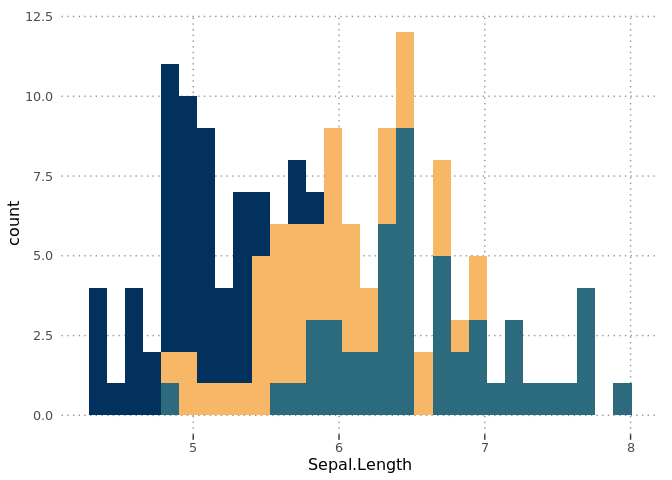
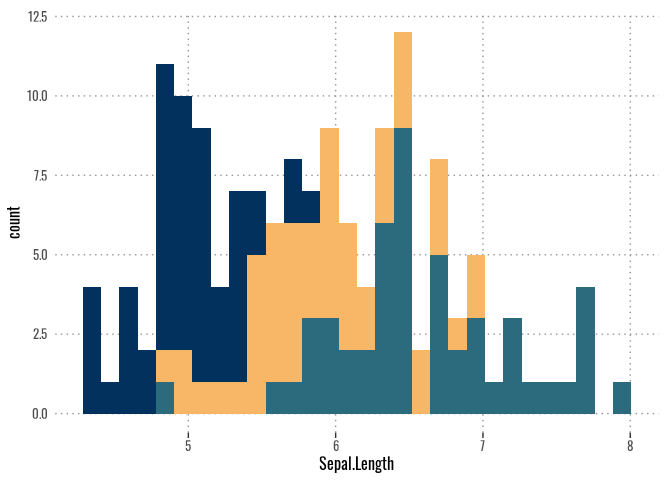
updated README

diff --git a/README.md b/README.md
@@ -22,14 +22,55 @@ You can install the development version from
 remotes::install_github("DSC-WAV/dscstyle")
 ```
 
-## Example
+## DSC Color Palettes
 
-This is a basic example which shows you how to solve a common problem:
+The package **dscstyle** includes three color palettes that are
+colorblind friendly and look good with the DSC-WAV logo. These palettes
+are available in the two **ggplot2** scale functions:
+
+  - `scale_color_dsc()`
+  - `scale_fill_dsc()`
+
+These scale functions default to a dark color palette
+(`palette="dark"`). There is also a lighter palette option
+(`palette="light"`) that can be included in these functions, as well as
+a palette for ordered data (`palette="blues"`).
+
+**Dark Palette**
+
+![Dark Palette](man/figures/dark-palette.png)
+
+**Light Palette**
+
+![Light Palette](man/figures/light-palette.png)
+
+**Blues Palette**
+
+![Blues Palette](man/figures/blues-palette.png)
+
+## DSC **ggplot2** Theme
+
+There is also a **ggplot2** theme included in the **dscstyle** package:
+
+  - `theme_dsc()`
+
+This uses the Google font Oswald in to format text. To use this requires
+the **showtext** package. While using `theme_dsc()` will render
+correctly when knitting to an HTML document, unfortunately, it will not
+render in the RStudio viewer.
+
+Additionally, you will need to set the chunk option for your plot to
+include `fig.showtext=TRUE`.
+
+## Example
 
 ``` r
 library(dscstyle)
-## Open new R Markdown template
 library(ggplot2)
+
+# Load the Oswald font
+sysfonts::font_add_google("Oswald", "Oswald")
+
 ggplot(data = iris, aes(x = Sepal.Length, fill = Species)) + 
   geom_histogram() + 
   theme_dsc() + 
@@ -38,3 +79,24 @@ ggplot(data = iris, aes(x = Sepal.Length, fill = Species)) +
 ```
 
 <img src="man/figures/README-example-1.png" width="100%" />
+
+## Rmarkdown DSC Evaluation Report Template
+
+The **dscstyle** package also includes a report template to style HTML
+rendered evaluation reports.
+
+  - In RStudio, navigate to `File > New File > R Markdown...`
+  - Select `From Template`
+  - Select the **DSC Evaluation Report** from the template options
+  - Give the RMD file a name
+  - Click `OK`
+
+![RMD Report](man/figures/eval-report.png)
+
+You may need to install the **showtext** package prior to the first time
+you use this template. This allows the Oswald Google font to be used in
+the plots.
+
+This template sets many global knitr options including
+`fig.showtext=TRUE`, so that they do not have to be included in each
+chunk.
